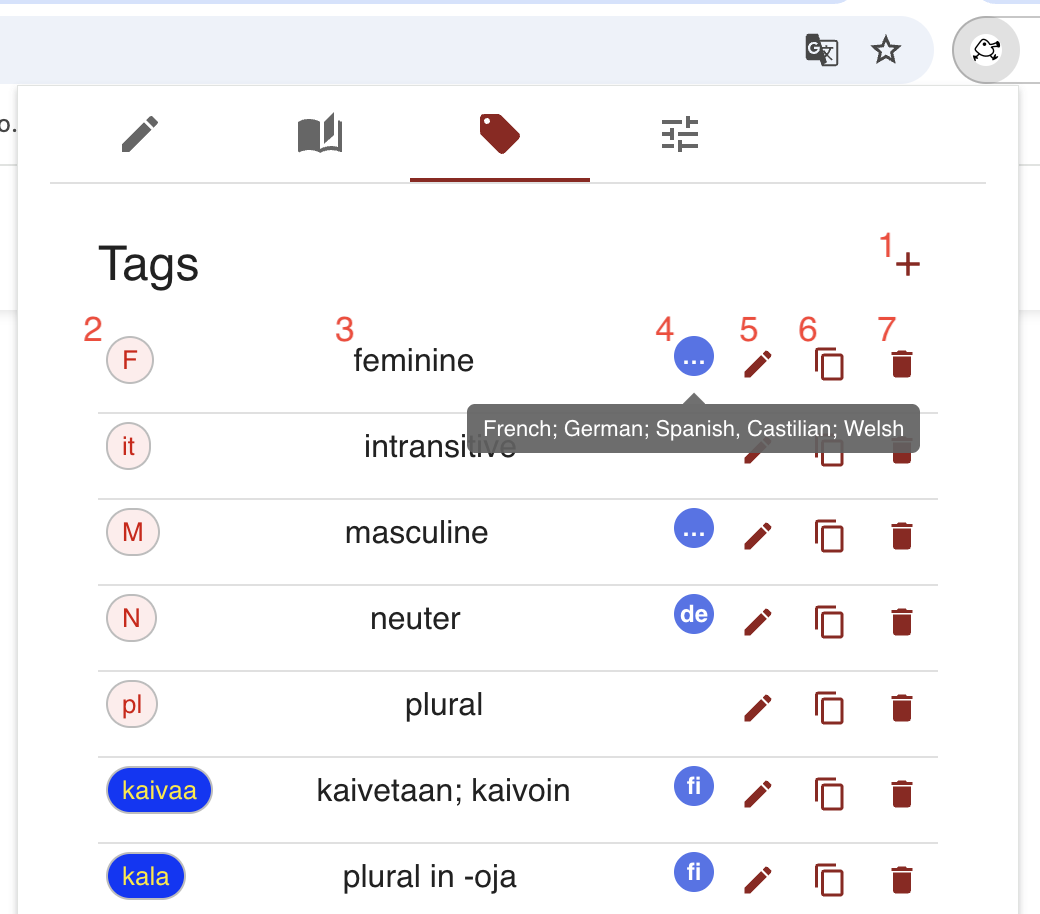
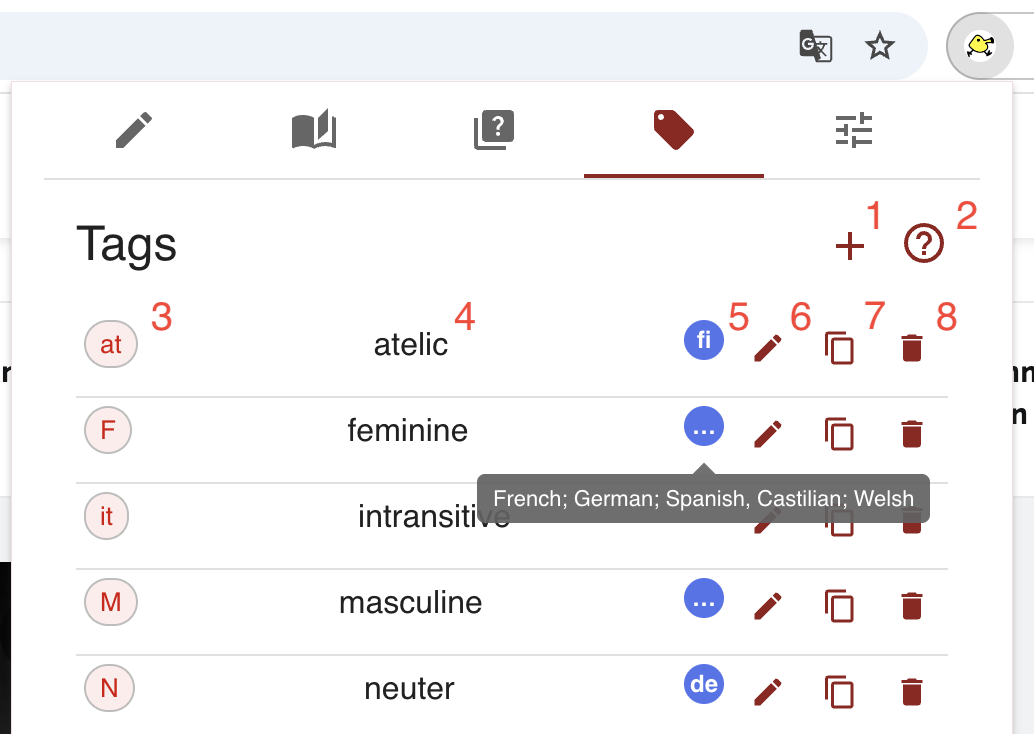
fixed up a bunch of documentation

diff --git a/docs/index.html b/docs/index.html
@@ -1001,12 +1001,11 @@
       <figure id="challenge-figure">
         <img src="images/challenge.png" alt="the challenge side of a spaced repetition quiz card" />
         <figcaption>
-          1) the lemma side of the card is the challenge; 2) gloss challenge
-          &mdash; this is a separate quiz; 3) a link to the spaced repetition
-          documentation; 4) the lemma for which you challenged to provide the
+          1) the lemma quiz tab; 2) gloss quiz tab; 3) a link to this
+          documentation; 4) the lemma for which you are challenged to provide the
           gloss and tags; 5) the green dot indicating this is the first time
           this challenge has been presented in a quiz; 6) the language badge
-          &mdash; the same form could occur in multiple languages; 7) how many
+          &mdash; the same lemma could occur in multiple languages; 7) how many
           new &mdash; "green dot" &mdash; cards are in the quiz; how many old;
           8) outcomes so far; 9) the progress bar
         </figcaption>
@@ -1048,7 +1047,7 @@
         <img src="images/response.png" alt="the answer side of a spaced repetition quiz card" />
         <figcaption>
           1) the answer; 2) the tags; 3) "show again in this quiz"; 4) "show
-          again tomorrow"; 5) good, okay, and bad outcomes; 6) "graduate" this
+          again tomorrow"; 5) bad, okay, and good outcomes; 6) "graduate" this
           card
         </figcaption>
       </figure>
@@ -1063,8 +1062,9 @@
       <figure id="tags-figure">
         <img src="images/tags.png" alt="the tag tab" />
         <figcaption>
-          The tag tab: 1) create a new tag; 2) the tag itself; 3) tag
-          contents; 4) tag locales; 5) edit; 6) duplicate; 7) delete
+          The tag tab: 1) create a new tag; 2) link to this documentation; 3)
+          the tag itself; 4) tag contents; 5) tag locales; 6) edit; 7)
+          duplicate; 8) delete
         </figcaption>
       </figure>
       <p>
@@ -1102,11 +1102,11 @@
         for prepositions. Perhaps you nave a category of tags that represent
         noun class &mdash; masculine versus feminine, animate versus
         inanimate, abstract versus concrete &mdash; and you wish to add a new
-        class. The class is represented stylistically. You part of speech
-        class might be purple text on a yellow background. Your noun class
-        might be red on pink. To create a new tag in an existing class, you
-        click the duplicate icon (6) and then add the tag, text, and perhaps
-        locales it pertains to.
+        noun class. The tag category is represented stylistically. Your part
+        of speech tag category might be purple text on a yellow background.
+        Your noun class tag category might be red on pink. To create a new tag
+        in an existing tag category, you click the duplicate icon (6) and then
+        add the tag, text, and perhaps locales it pertains to.
       </p>
       <p>
         When tags are listed, they are sorted primarily by category, in the
@@ -1144,61 +1144,30 @@
         In the tags tab, if a tag has a single locale, that locale is shown in
         the locales bubble. If it has more than one, the bubble contains an
         ellipsis. If you hove over a tag's locale bubble in the tags tab, all
-        its locales will appear in a tooltip. See (4) in
+        its locales will appear in a tooltip. See (5) in
         <a href="#tags-figure">the figure</a>.
       </p>
       <h3 id="configuration">Configuration</h3>
       <figure id="config-figure">
         <img src="images/configuration.png" alt="the configuration tab" />
         <figcaption>
-          The configuration tab: 1) link to documentation; 2) similarity
-          metric selector; 3) maximum similar phrase count; 4) clear database
-          button; 5) export database button; 6) import database button; 7)
-          language adder; 8) the unknown language; 9) locale tally
+          The configuration tab: 1) link to this documentation; 2) maximum similar
+          phrase count; 3) auto-graduate count 4) quiz memory challeng; 5)
+          clear database button; 6) export database button; 7) import database
+          button
+        </figcaption>
+      </figure>
+      <figure id="language-figure">
+        <img src="images/languages.png" alt="the languages subsection of the configuration tab" />
+        <figcaption>
+          The languages subsection of the configuration tab: 1) language
+          adder; 2)&nbsp;the unknown language; 3) locale tally
         </figcaption>
       </figure>
       <p>
         Amanuensis does not yet have many configurable parameters. Those that
         there are, together with some database actions, can be found on the
         configuration tab (<a href="#config-figure">the figure</a>).
-      </p>
-      <p>
-        The configuration tab is also where one can find the link to this
-        documentation &mdash; (1) in
-        <a href="#config-figure">the figure</a> &mdash; something which you
-        likely already know, since it's likely what has brought you to be
-        reading this text.
-      </p>
-      <h4 id="distance-metrics">string distance metrics</h4>
-      <p>
-        If you capture a citation of <i>cars</i>, you probably don't want it
-        to live in a separate note from a note on <i>car</i>, if any. You can
-        add the citation to the existing <i>car</i> by finding the note via
-        search and then clicking the merge button.
-      </p>
-      <p>
-        But how do you find the <i>car</i> note? Amanuensis provides a special
-        variety of search for this purpose: the
-        <a href="#similar">similarity search</a>. Similarity searches look for
-        notes whose lemma or citations are particularly similar to a given
-        phrase. For this they need a definition of similarity. These are the
-        <a href="https://en.wikipedia.org/wiki/String_metric">string distance metrics</a>.
-      </p>
-      <p>
-        The default string distance metric is called Jaro-Winkler. It is fast
-        and considers changes to the beginning of words to be more important
-        than changes to the end, so <i>cars</i> will be found to be more
-        similar than <i>scar</i> to <i>car</i>. This is just what you want for
-        suffixing languages like English, where grammatical markers tend to go
-        on the end of words. If you are working with a prefixing language like
-        Swahili, where <i>watu</i> is a form of the word <i>mtu</i>, this is
-        not so good.
-      </p>
-      <p>
-        If you find the similar words found by similarity search are not all
-        that similar, and in particular if you know that there's a similar
-        note but it's not finding it, you could try a different string
-        distance metric. Perhaps another will work better.
       </p>
       <h4 id="max-similars">max similar phrases</h4>
       <p>
@@ -1222,7 +1191,7 @@
       </p>
       <h5>clear</h5>
       <p>
-        The clear action &mdash; (4) in
+        The clear action &mdash; (5) in
         <a href="#config-figure">the figure</a> &mdash; allows you to reset
         Amanuensis to "factory settings". Once done one cannot restore the
         database unless you've exported the data, so a confirmation modal will
@@ -1231,7 +1200,7 @@
       </p>
       <h5>export</h5>
       <p>
-        The export database action &mdash; (5) in
+        The export database action &mdash; (6) in
         <a href="#config-figure">the figure</a> &mdash; dumps the entire
         contents of your Amanuensis database into a
         <a href="https://en.wikipedia.org/wiki/JSON" title="an explanation of javascript object notation">JSON file</a>.
@@ -1248,7 +1217,7 @@
       </p>
       <h5>import</h5>
       <p>
-        The import database action &mdash; (6) in
+        The import database action &mdash; (7) in
         <a href="#config-figure">the figure</a> &mdash; allows you to add the
         notes exported from a different instance of Amanuensis into your
         current one.
@@ -1262,8 +1231,8 @@
       <p>
         You do not need to use Amanuensis to study languages. You can use it
         simply as a note taking tool. Amanuensis begins configured to use only
-        one language, the "unknown" language &mdash; (8) in
-        <a href="#config-figure">the figure</a>. You do not need to configure
+        one language, the "unknown" language &mdash; (2) in
+        <a href="#language-figure">the figure</a>. You do not need to configure
         it further. If you create a note, it will begin and remain assigned to
         the unkown language.
       </p>
@@ -1276,8 +1245,8 @@
         appropriate to the language are offered.
       </p>
       <p>
-        To add a language, click the add-language icon &mdash; (7) in
-        <a href="#config-figure">the figure</a>. This will open a modal where
+        To add a language, click the add-language icon &mdash; (1) in
+        <a href="#language-figure">the figure</a>. This will open a modal where
         you can select a language with an
         <a href="https://en.wikipedia.org/wiki/List_of_ISO_639_language_codes"
           title="the wikipedia page listing the ISO-639-1 language codes">ISO-639-1 language code</a>. At this time,
@@ -1298,10 +1267,10 @@
         language. You can correct this using the language picker widget
         &mdash; (3) in <a href="#note-figure">the figure</a>. Amanuensis will
         record this discrepancy and use it to improve its language assignment
-        for subsequent notes. In (9) in
-        <a href="#config-figure">the figure</a> you can see an instance of
+        for subsequent notes. In (3) in
+        <a href="#language-figure">the figure</a> you can see an instance of
         this: 4 notes on Finnish were guessed by Chrome to contain Estonian
-        (et).
+        (et); one was guessed to containg Swedish (sv).
       </p>
       <h2>Acknowledgements</h2>
       <p>
@@ -1367,7 +1336,7 @@
         clearInterval(highlightTimeout)
         highlightTimeout = setTimeout(() => {
           removeHighlights()
-        }, 2000)
+        }, 3000)
       }
     }
     // fiddle with history so the back button works as expected

diff --git a/components/Configuration.tsx b/components/Configuration.tsx
@@ -346,7 +346,7 @@ export const Languages: React.FC<LanguagesProps> = ({
               <TableCell>
                 {Object.entries(l.locales).map(([k, v], i) => (
                   <span key={i}>
-                    <b>{k}</b> {v}{" "}
+                    <b>{k}</b>&nbsp;{v.toLocaleString()}{" "}
                   </span>
                 ))}
               </TableCell>
